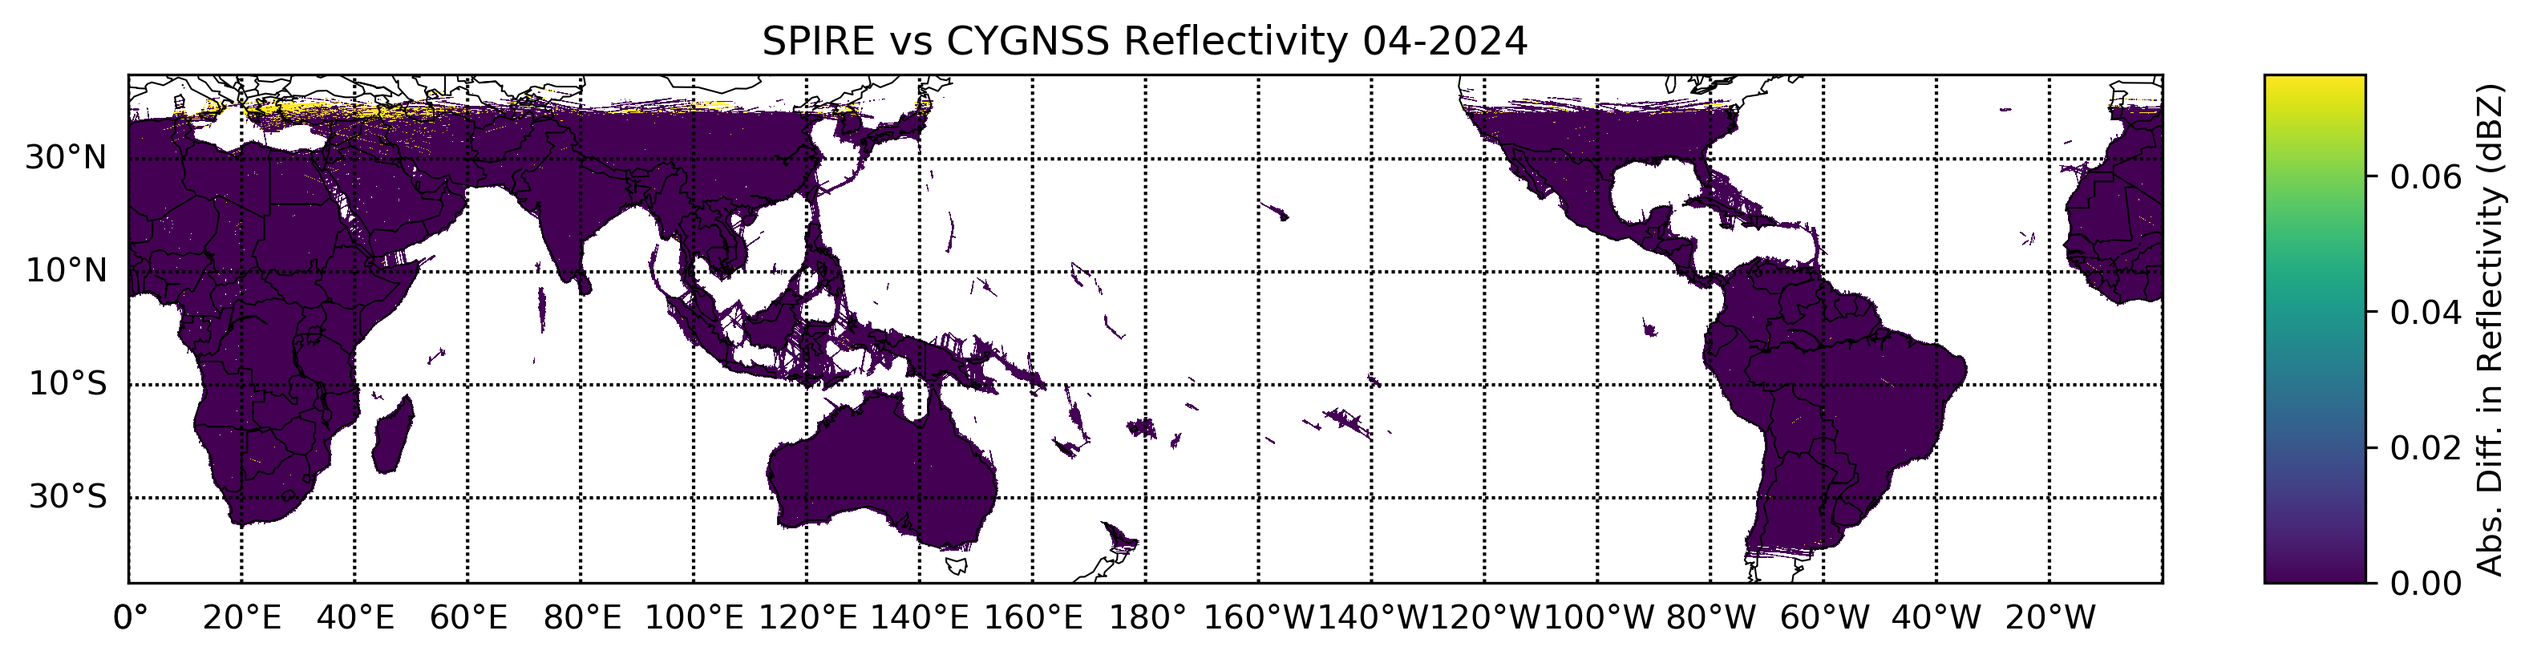
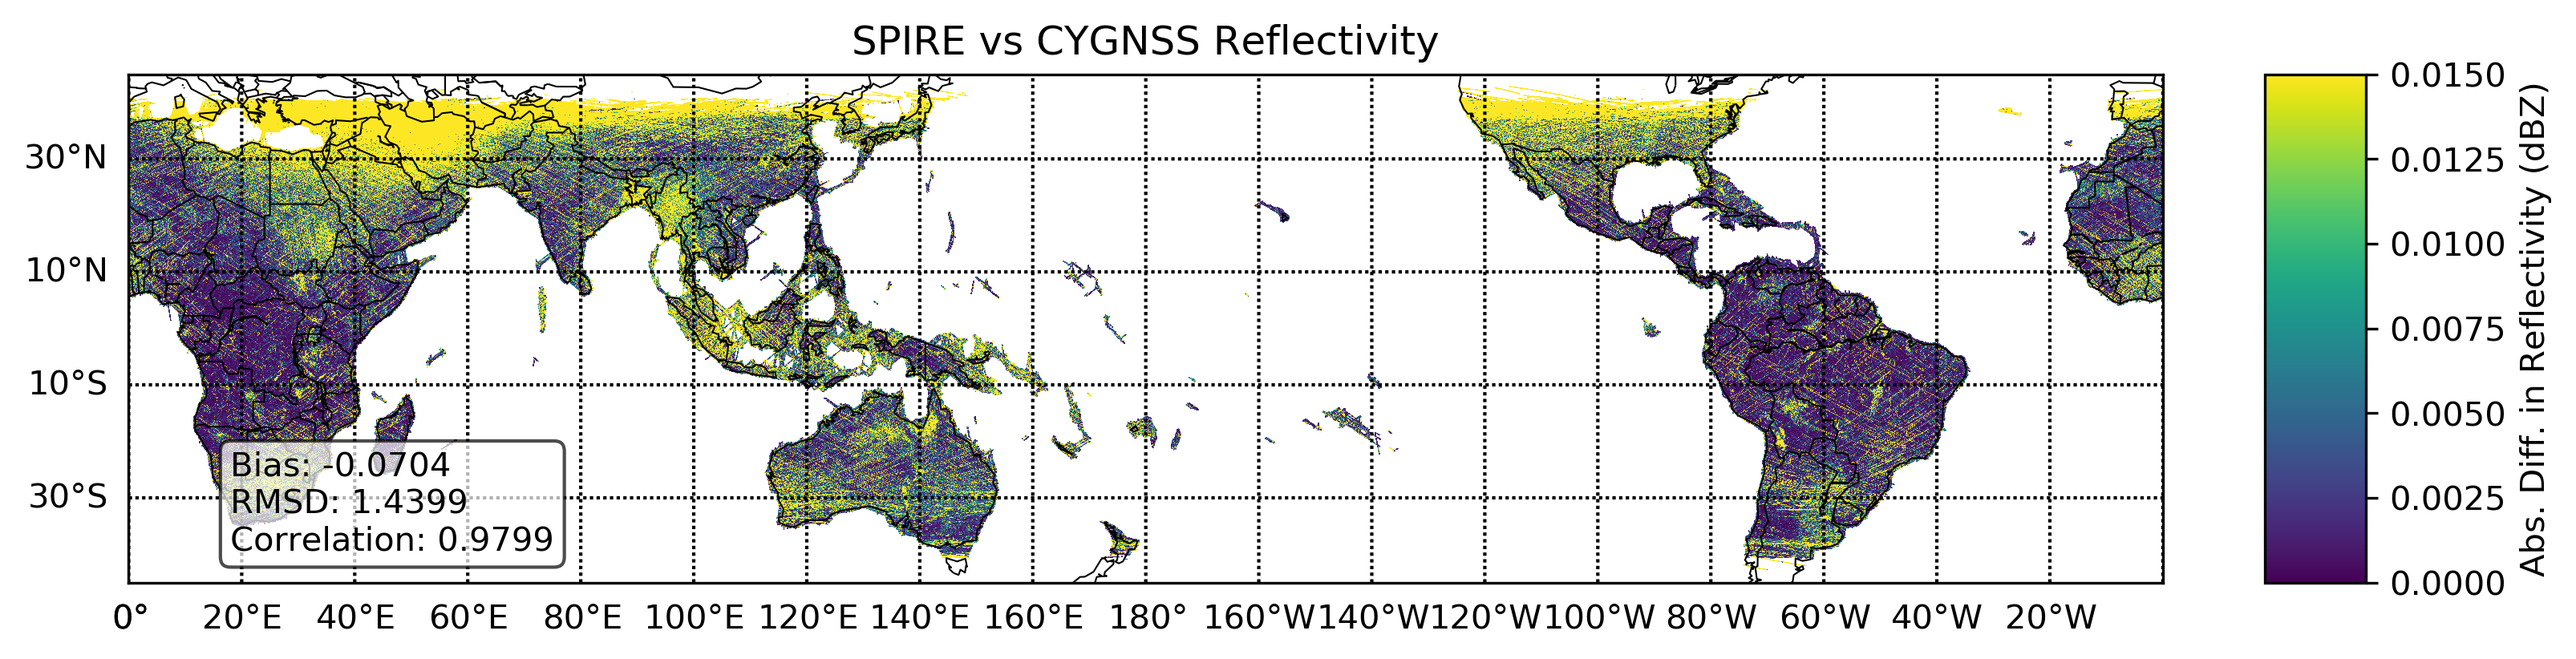
fixed script issues, graphed comparisons, cleaned up old graphs

diff --git a/make_grid.py b/make_grid.py
@@ -5,37 +5,32 @@ import numpy as np
 
 # Task: make SNR and Reflectivity grids at 5km resolution (7200 in longitude and 3600 in latitude)
 
-# reads a given NetCDF4 file and updates the SNR and Reflectivity grid arguments with the values
 def read_file(file, grid_snr, grid_refl, grid_count_snr, grid_count_refl):
     nc_file = netCDF4.Dataset(file, "r", format="NETCDF4")
 
-    # variables in 1D arrays; we use the lon and lat values to locate the Reflectivity and SNR values 
-    refl = nc_file.variables['reflectivity_at_sp'][:]
-    snr = nc_file.variables['reflect_snr_at_sp'][:]
     lon = nc_file.variables['sp_lon'][:]
     lat = nc_file.variables['sp_lat'][:]
 
-    # the lon and lat values in the files range from [0, 360] and [-90, 90] respectively
-    # we convert to [0, 360] and [0, 180] first to avoid negatives being interpreted incorrectly as XY
-    # when creating the graph we interpret the coordinates as [-180, 180] and [-90, 90]
     x = (lon / 0.05).astype(int)
     y = ((lat + 90) / 0.05).astype(int)
-
-    # the prior conversions allow for 7200 and 3600 coordinates which don't fit into the grid 
     x = np.clip(x, 0, 7199)
     y = np.clip(y, 0, 3599)
 
-    # the data contains masked and NaN values that we want to avoid 
-    valid_snr = ~np.ma.getmaskarray(snr) & ~np.isnan(snr)
-    valid_refl = ~np.ma.getmaskarray(refl) & ~np.isnan(refl)
+    if 'reflect_snr_at_sp' in nc_file.variables.keys():
+        snr = nc_file.variables['reflect_snr_at_sp'][:]
+        
+        valid_snr = ~np.ma.getmaskarray(snr) & ~np.isnan(snr)
+        
+        grid_snr[y[valid_snr], x[valid_snr]] += snr[valid_snr]
+        grid_count_snr[y[valid_snr], x[valid_snr]] += 1
 
-    # looks complicated; just does grid[y[i]][x[i]] = snr[i] for where SNR is valid (not masked or NaN)
-    grid_snr[y[valid_snr], x[valid_snr]] = snr[valid_snr]
-    grid_refl[y[valid_refl], x[valid_refl]] = refl[valid_refl]
-    
-    # keep track of how many readings we have for each grid space for averaging later on
-    grid_count_snr[y[valid_snr], x[valid_snr]] += 1
-    grid_count_refl[y[valid_refl], x[valid_refl]] += 1
+    if "reflectivity_at_sp" in nc_file.variables.keys():
+        refl = nc_file.variables['reflectivity_at_sp'][:]
+
+        valid_refl = ~np.ma.getmaskarray(refl) & ~np.isnan(refl)
+
+        grid_refl[y[valid_refl], x[valid_refl]] += refl[valid_refl]
+        grid_count_refl[y[valid_refl], x[valid_refl]] += 1
 
     nc_file.close()
     
@@ -44,8 +39,6 @@ def read_file(file, grid_snr, grid_refl, grid_count_snr, grid_count_refl):
 if __name__ == "__main__":
     # this folder contains all of our data in subfolders for a given date (YYYYMMDD)
     directory = Path('/data01/jyin/SPIRE/RAW/2024')
-    # the month we want to grab data for
-    month = '202404'
 
     # default values are -9999 so that we can identify unfilled values later easily
     # snr_grid and reflectivity_grid will store total values and their # of readings used are stored in the count grids
@@ -55,20 +48,22 @@ if __name__ == "__main__":
     count_snr_grid = np.zeros((3600,7200))
     count_refl_grid = np.zeros((3600,7200))
 
-    # walk through every date folder and process anything from given month
+    # walk through every date folder and process everything inside
     for i, folder in enumerate(directory.iterdir()):
         if folder.is_dir():
-            if folder.name.startswith(month):
-                print(f"Processing date: {folder.name}")
-                # each date folder has numerous NetCDF4 files that are to be combined for our final grid
-                for j, file in enumerate(folder.iterdir()):
-                    if file.is_file() and file.suffix == '.nc':        
-                        if (j % 250 == 0):
-                            print(f"- Reading file #{j}")
-                            print(f"- SNR Values above 0: {np.sum(snr_grid > 0)}")  
+            print(f"Processing date: {folder.name}")
+            # each date folder has numerous NetCDF4 files that are to be combined for our final grid
+            for j, file in enumerate(folder.iterdir()):
+                if file.is_file() and file.suffix == '.nc':        
+                    if (j % 250 == 0):
+                        print(f"- Reading file #{j}")
+                        print(f"- SNR Values above 0: {np.sum(snr_grid > 0)}")  
 
+                    try:
                         snr_grid, refl_grid, count_snr_grid, count_refl_grid = read_file(file, snr_grid, refl_grid, count_snr_grid, count_refl_grid)
-
+                    except:
+                        print(file.as_posix())
+                        
     # only do averages where we found values (avoid dividing by zero error)
     mask_snr = count_snr_grid > 0
     mask_refl = count_refl_grid > 0
@@ -81,8 +76,11 @@ if __name__ == "__main__":
     snr_grid[~mask_snr] = -9999
     refl_grid[~mask_refl] = -9999
 
+    snr_grid = snr_grid.astype(np.float32)
+    refl_grid = refl_grid.astype(np.float32)
+
     # pickle files are nice
-    with open('/data01/lpu/snr_grid_parallel.pkl', 'wb') as f:
+    with open('/data01/lpu/spire_snr_grid.pkl', 'wb') as f:
         pickle.dump(snr_grid, f)
-    with open('/data01/lpu/reflectivity_grid_parallel.pkl', 'wb') as f:
+    with open('/data01/lpu/spire_reflectivity_grid.pkl', 'wb') as f:
         pickle.dump(refl_grid, f)

diff --git a/visualize_grid.py b/visualize_grid.py
@@ -40,45 +40,23 @@ def create_figure(grid, title, label, file_name, isomin, isomax, latmin, latmax)
 def visualize_SPIRE():
     with open('/data01/lpu/spire_snr_grid.pkl', 'rb') as f:
         spire_snr_grid = pickle.load(f)
-        create_figure(spire_snr_grid, "SPIRE SNR 04-2024", "SNR (dB)", "figures/spire_snr_map.png", 0, 2, -90, 90)
+        create_figure(spire_snr_grid, "SPIRE SNR (01/25/2024-06/02/2024)", "SNR (dB)", "figures/spire_snr_map.png", 0, 2, -90, 90)
     with open('/data01/lpu/spire_reflectivity_grid.pkl', 'rb') as f:
         spire_refl_grid = pickle.load(f)
-        create_figure(spire_refl_grid, "SPIRE Reflectivity 04-2024", "Reflectivity (dBZ)", "figures/spire_reflectivity_map.png", 0, 0.015, -90, 90)
+        create_figure(spire_refl_grid, "SPIRE Reflectivity (01/25/2024-06/02/2024)", "Reflectivity (dBZ)", "figures/spire_reflectivity_map.png", 0, 0.015, -90, 90)
 
 def visualize_CYGNSS():
     with open('/data01/lpu/cygnss_snr_grid.pkl', 'rb') as f:
         cygnss_snr_grid = pickle.load(f)
-        create_figure(cygnss_snr_grid, "CYGNSS SNR 04-2024", "SNR (dB)", "figures/cygnss_snr_map.png", 0, 2, -45, 45)
+        create_figure(cygnss_snr_grid, "CYGNSS SNR (01/25/2024-06/02/2024)", "SNR (dB)", "figures/cygnss_snr_map.png", 0, 2, -45, 45)
     with open('/data01/lpu/cygnss_reflectivity_grid.pkl', 'rb') as f:
         cygnss_refl_grid = pickle.load(f)
-        create_figure(cygnss_refl_grid, "CYGNSS Reflectivity 04-2024", "Reflectivity (dBZ)", "figures/cygnss_reflectivity_map.png", 0, 0.015, -45, 45)
-
-def visualize_SPIRE_vs_CYGNSS():
-    with open('/data01/lpu/spire_snr_grid.pkl', 'rb') as f:
-        spire_snr_grid = pickle.load(f)
-    with open('/data01/lpu/spire_reflectivity_grid.pkl', 'rb') as f:
-        spire_refl_grid = pickle.load(f)
-    with open('/data01/lpu/cygnss_snr_grid.pkl', 'rb') as f:
-        cygnss_snr_grid = pickle.load(f)
-    with open('/data01/lpu/cygnss_reflectivity_grid.pkl', 'rb') as f:
-        cygnss_refl_grid = pickle.load(f)
-
-    comp_snr_grid = np.full((1800, 7200), -9999)
-    clipped_spire_snr_grid = spire_snr_grid[900:2700, :]
-    known_snr_mask = ~(clipped_spire_snr_grid == -9999) & ~(cygnss_snr_grid == -9999)
-    comp_snr_grid[known_snr_mask] = np.abs(clipped_spire_snr_grid[known_snr_mask] - cygnss_snr_grid[known_snr_mask])
-    create_figure(comp_snr_grid, "SPIRE vs CYGNSS SNR 04-2024", "Abs. Diff. in SNR (dB)", "figures/comp_snr_map.png", 0, 10, -45, 45) 
-
-    comp_refl_grid = np.full((1800, 7200), -9999)
-    clipped_spire_refl_grid = spire_refl_grid[900:2700, :]
-    known_refl_mask = ~(clipped_spire_refl_grid == -9999) & ~(cygnss_refl_grid == -9999)
-    comp_refl_grid[known_refl_mask] = np.abs(clipped_spire_refl_grid[known_refl_mask] - cygnss_refl_grid[known_refl_mask])
-    create_figure(comp_refl_grid, "SPIRE vs CYGNSS Reflectivity 04-2024", "Abs. Diff. in Reflectivity (dBZ)", "figures/comp_reflectivity_map.png", 0, 0.075, -45, 45) 
+        create_figure(cygnss_refl_grid, "CYGNSS Reflectivity (01/25/2024-06/02/2024)", "Reflectivity (dBZ)", "figures/cygnss_reflectivity_map.png", 0, 0.015, -45, 45)
 
 def visualize_binary_examples():
-    # with open('/data01/lpu/CYGNSS/reflectivity/2023/2023-02-01.pkl', 'rb') as f:
-    #     cygnss_refl_grid = pickle.load(f)
-    #     create_figure(cygnss_refl_grid, "CYGNSS Reflectivity 02-01-2023", "Reflectivity (dBZ)", "figures/cygnss_refl_binary_map.png",  0, 0.015, -45, 45) 
+    with open('/data01/lpu/CYGNSS/reflectivity/2023/2023-02-01.pkl', 'rb') as f:
+        cygnss_refl_grid = pickle.load(f)
+        create_figure(cygnss_refl_grid, "CYGNSS Reflectivity 02-01-2023", "Reflectivity (dBZ)", "figures/cygnss_refl_binary_map.png",  0, 0.015, -45, 45)
     with open('/data01/lpu/SPIRE/reflectivity/2024/20240125.pkl', 'rb') as f:
         spire_snr_grid = pickle.load(f)
         create_figure(spire_snr_grid, "SPIRE Reflectivity 01-25-2024", "SNR (dB)", "figures/spire_snr_binary_map.png",  0, 2, -90, 90) 
@@ -86,4 +64,6 @@ def visualize_binary_examples():
 if __name__ == "__main__":
     # i've ran into memory issues with this file, seemingly from caching too much
     # closing the terminal and reopening seems to fix this for mes
-    visualize_binary_examples()
+    visualize_SPIRE()
+    visualize_CYGNSS()    
+    # visualize_binary_examples()

diff --git a/visualize_comparison.py b/visualize_comparison.py
@@ -1,0 +1,94 @@
+import numpy as np
+import matplotlib.pyplot as plt
+from mpl_toolkits.basemap import Basemap
+import pickle
+
+def calculate_statistics(grid1, grid2):
+    if grid1.shape != grid2.shape:
+        return None
+
+    diff = np.full(grid1.shape, -9999.00)
+    mask = ~(grid1 == -9999.00) & ~(grid2 == -9999.00)
+    diff[mask] = grid1[mask] - grid2[mask]
+    valid_diff = diff[mask]
+
+    bias = np.mean(valid_diff)
+    rmsd = np.sqrt(np.mean(valid_diff**2))
+    corr_coeff = np.corrcoef(grid1, grid2)[0, 1]
+
+    stats = (bias, rmsd, corr_coeff)
+    diff_grid = np.full(grid1.shape, -9999.00)
+    diff_grid[mask] = np.abs(grid1[mask] - grid2[mask])
+
+    return diff_grid, stats
+
+# creates a matplotlib figure for a given grid over an Earth map
+def create_figure(grid, title, label, file_name, isomin, isomax, latmin, latmax, stats=None):
+    fig, ax = plt.subplots(figsize=(12, 8))
+
+    # the Basemap library adds a map of the Earth for easy viewing
+    m = Basemap(projection='cyl', llcrnrlat=latmin, urcrnrlat=latmax,
+                llcrnrlon=0, urcrnrlon=360, resolution='c', ax=ax)
+
+    # creates a meshgrid from [0, 360] and [latmin, latmax] used to translate argument grid to lon and lat values 
+    lon_vals = np.linspace(0, 360, grid.shape[1])
+    lat_vals = np.linspace(latmin, latmax, grid.shape[0])
+    lon_grid, lat_grid = np.meshgrid(lon_vals, lat_vals)
+
+    # remove values that are equal to -9999
+    masked_grid = np.ma.masked_where(grid == -9999, grid)
+
+    cs = m.pcolormesh(lon_grid, lat_grid, masked_grid, shading='auto', 
+                      cmap='viridis', vmin=isomin, vmax=isomax)
+
+    # customization stuff
+    m.drawcoastlines(linewidth=0.5)
+    m.drawcountries(linewidth=0.5)
+
+    m.drawparallels(np.arange(-90, 91, 20), labels=[1, 0, 0, 0])  # Latitude lines
+    m.drawmeridians(np.arange(0, 361, 20), labels=[0, 0, 0, 1])   # Longitude lines
+
+    cbar = m.colorbar(cs, location='right', pad="5%")
+    cbar.set_label(label)
+
+    ax.set_title(title)
+
+    # If statistics are provided, add them as annotations
+    if stats:
+        bias, rmsd, corr = stats
+        textstr = '\n'.join((
+            f"Bias: {bias:.4f}",
+            f"RMSD: {rmsd:.4f}",
+            f"Correlation: {corr:.4f}"
+        ))
+        # place the text box in the lower-left corner of the plot
+        props = dict(boxstyle='round', facecolor='white', alpha=0.7)
+        ax.text(0.05, 0.05, textstr, transform=ax.transAxes, fontsize=10,
+                verticalalignment='bottom', bbox=props)
+
+    plt.savefig(file_name, dpi=300, bbox_inches='tight')
+    plt.close()
+
+def visualize_SPIRE_vs_CYGNSS():
+    with open('/data01/lpu/spire_snr_grid.pkl', 'rb') as f:
+        spire_snr_grid = pickle.load(f)
+    with open('/data01/lpu/spire_reflectivity_grid.pkl', 'rb') as f:
+        spire_refl_grid = pickle.load(f)
+    with open('/data01/lpu/cygnss_snr_grid.pkl', 'rb') as f:
+        cygnss_snr_grid = pickle.load(f)
+    with open('/data01/lpu/cygnss_reflectivity_grid.pkl', 'rb') as f:
+        cygnss_refl_grid = pickle.load(f)
+
+    spire_refl_grid = spire_refl_grid[900:2700, :]
+    refl_grid, stats = calculate_statistics(spire_refl_grid, cygnss_refl_grid)
+    create_figure(refl_grid, "SPIRE vs CYGNSS Reflectivity", "Abs. Diff. in Reflectivity (dBZ)", "figures/comp_reflectivity_map.png", 0, 0.015, -45, 45, stats) 
+
+    spire_snr_grid = spire_snr_grid[900:2700, :]
+    snr_grid, stats = calculate_statistics(spire_snr_grid, cygnss_snr_grid)
+    create_figure(snr_grid, "SPIRE vs CYGNSS SNR", "Abs. Diff. in SNR (dB)", "figures/comp_snr_map.png", 0, 10, -45, 45, stats) 
+
+
+if __name__ == "__main__":
+    # i've ran into memory issues with this file, seemingly from caching too much
+    # closing the terminal and reopening seems to fix this for mes
+    visualize_SPIRE_vs_CYGNSS()

diff --git a/make_grid_CYGNSS.py b/make_grid_CYGNSS.py
@@ -2,6 +2,7 @@ import netCDF4
 from pathlib import Path
 import numpy as np
 import pickle
+from datetime import datetime
 
 # Task: make a grid of CYGNSS SNR and Reflectivity data for comparison and validation of SPIRE data
 # very few comments because the logic is almost exactly the same as make_grid.py  
@@ -36,7 +37,10 @@ def read_file(file, grid_snr, grid_refl, grid_count_snr, grid_count_refl):
 
 if __name__ == "__main__":
     directory = Path('/data01/jyin/CYGNSS/data/V3.2/2023/')
-    month = "-e202305"
+
+    # data for comparison with SPIRE
+    start_date = datetime.strptime("20240125", "%Y%m%d")
+    end_date = datetime.strptime("20240602", "%Y%m%d")
 
     # lat ~ [-45, 45], so we need to have 1800 lat values in the grid to keep the same resolution
     snr_grid = np.zeros((1800,7200))
@@ -47,9 +51,13 @@ if __name__ == "__main__":
     for folder in directory.iterdir():
         if folder.is_dir():
             for file in folder.iterdir():
-                if file.is_file() and file.suffix == '.nc' and month in file.name:
-                    print(f"Reading file: {file.as_posix()}")
-                    snr_grid, refl_grid, count_snr_grid, count_refl_grid = read_file(file, snr_grid, refl_grid, count_snr_grid, count_refl_grid)
+                if file.is_file() and file.suffix == '.nc':
+                    date_str = filename.split("-e")[-1][:8]
+                    file_date = datetime.strptime(date_str, "%Y%m%d")
+
+                    if start_date <= file_date <= end_date:
+                        print(f"Reading file: {file.as_posix()}")
+                        snr_grid, refl_grid, count_snr_grid, count_refl_grid = read_file(file, snr_grid, refl_grid, count_snr_grid, count_refl_grid)
 
     mask_snr = count_snr_grid > 0
     mask_refl = count_refl_grid > 0

diff --git a/make_binaries_SPIRE.py b/make_binaries_SPIRE.py
@@ -10,13 +10,14 @@ def read_file(file, grid_snr, grid_refl, grid_count_snr, grid_count_refl):
     lat = nc_file.variables['sp_lat'][:]
 
     x = (lon / 0.05).astype(int)
-    y = ((lat + 45) / 0.05).astype(int)
+    y = ((lat + 90) / 0.05).astype(int)
     x = np.clip(x, 0, 7199)
+    x = np.clip(x, 0, 3599)
 
     if 'reflect_snr_at_sp' in nc_file.variables.keys():
         snr = nc_file.variables['reflect_snr_at_sp'][:]
         
-        valid_snr = ~np.ma.getmaskarray(snr) & ~np.isnan(snr) & (y >= 0) & (y < 1800)
+        valid_snr = ~np.ma.getmaskarray(snr) & ~np.isnan(snr)
         
         grid_snr[y[valid_snr], x[valid_snr]] += snr[valid_snr]
         grid_count_snr[y[valid_snr], x[valid_snr]] += 1
@@ -24,7 +25,7 @@ def read_file(file, grid_snr, grid_refl, grid_count_snr, grid_count_refl):
     if "reflectivity_at_sp" in nc_file.variables.keys():
         refl = nc_file.variables['reflectivity_at_sp'][:]
 
-        valid_refl = ~np.ma.getmaskarray(refl) & ~np.isnan(refl) & (y >= 0) & (y < 1800)
+        valid_refl = ~np.ma.getmaskarray(refl) & ~np.isnan(refl)
 
         grid_refl[y[valid_refl], x[valid_refl]] += refl[valid_refl]
         grid_count_refl[y[valid_refl], x[valid_refl]] += 1
